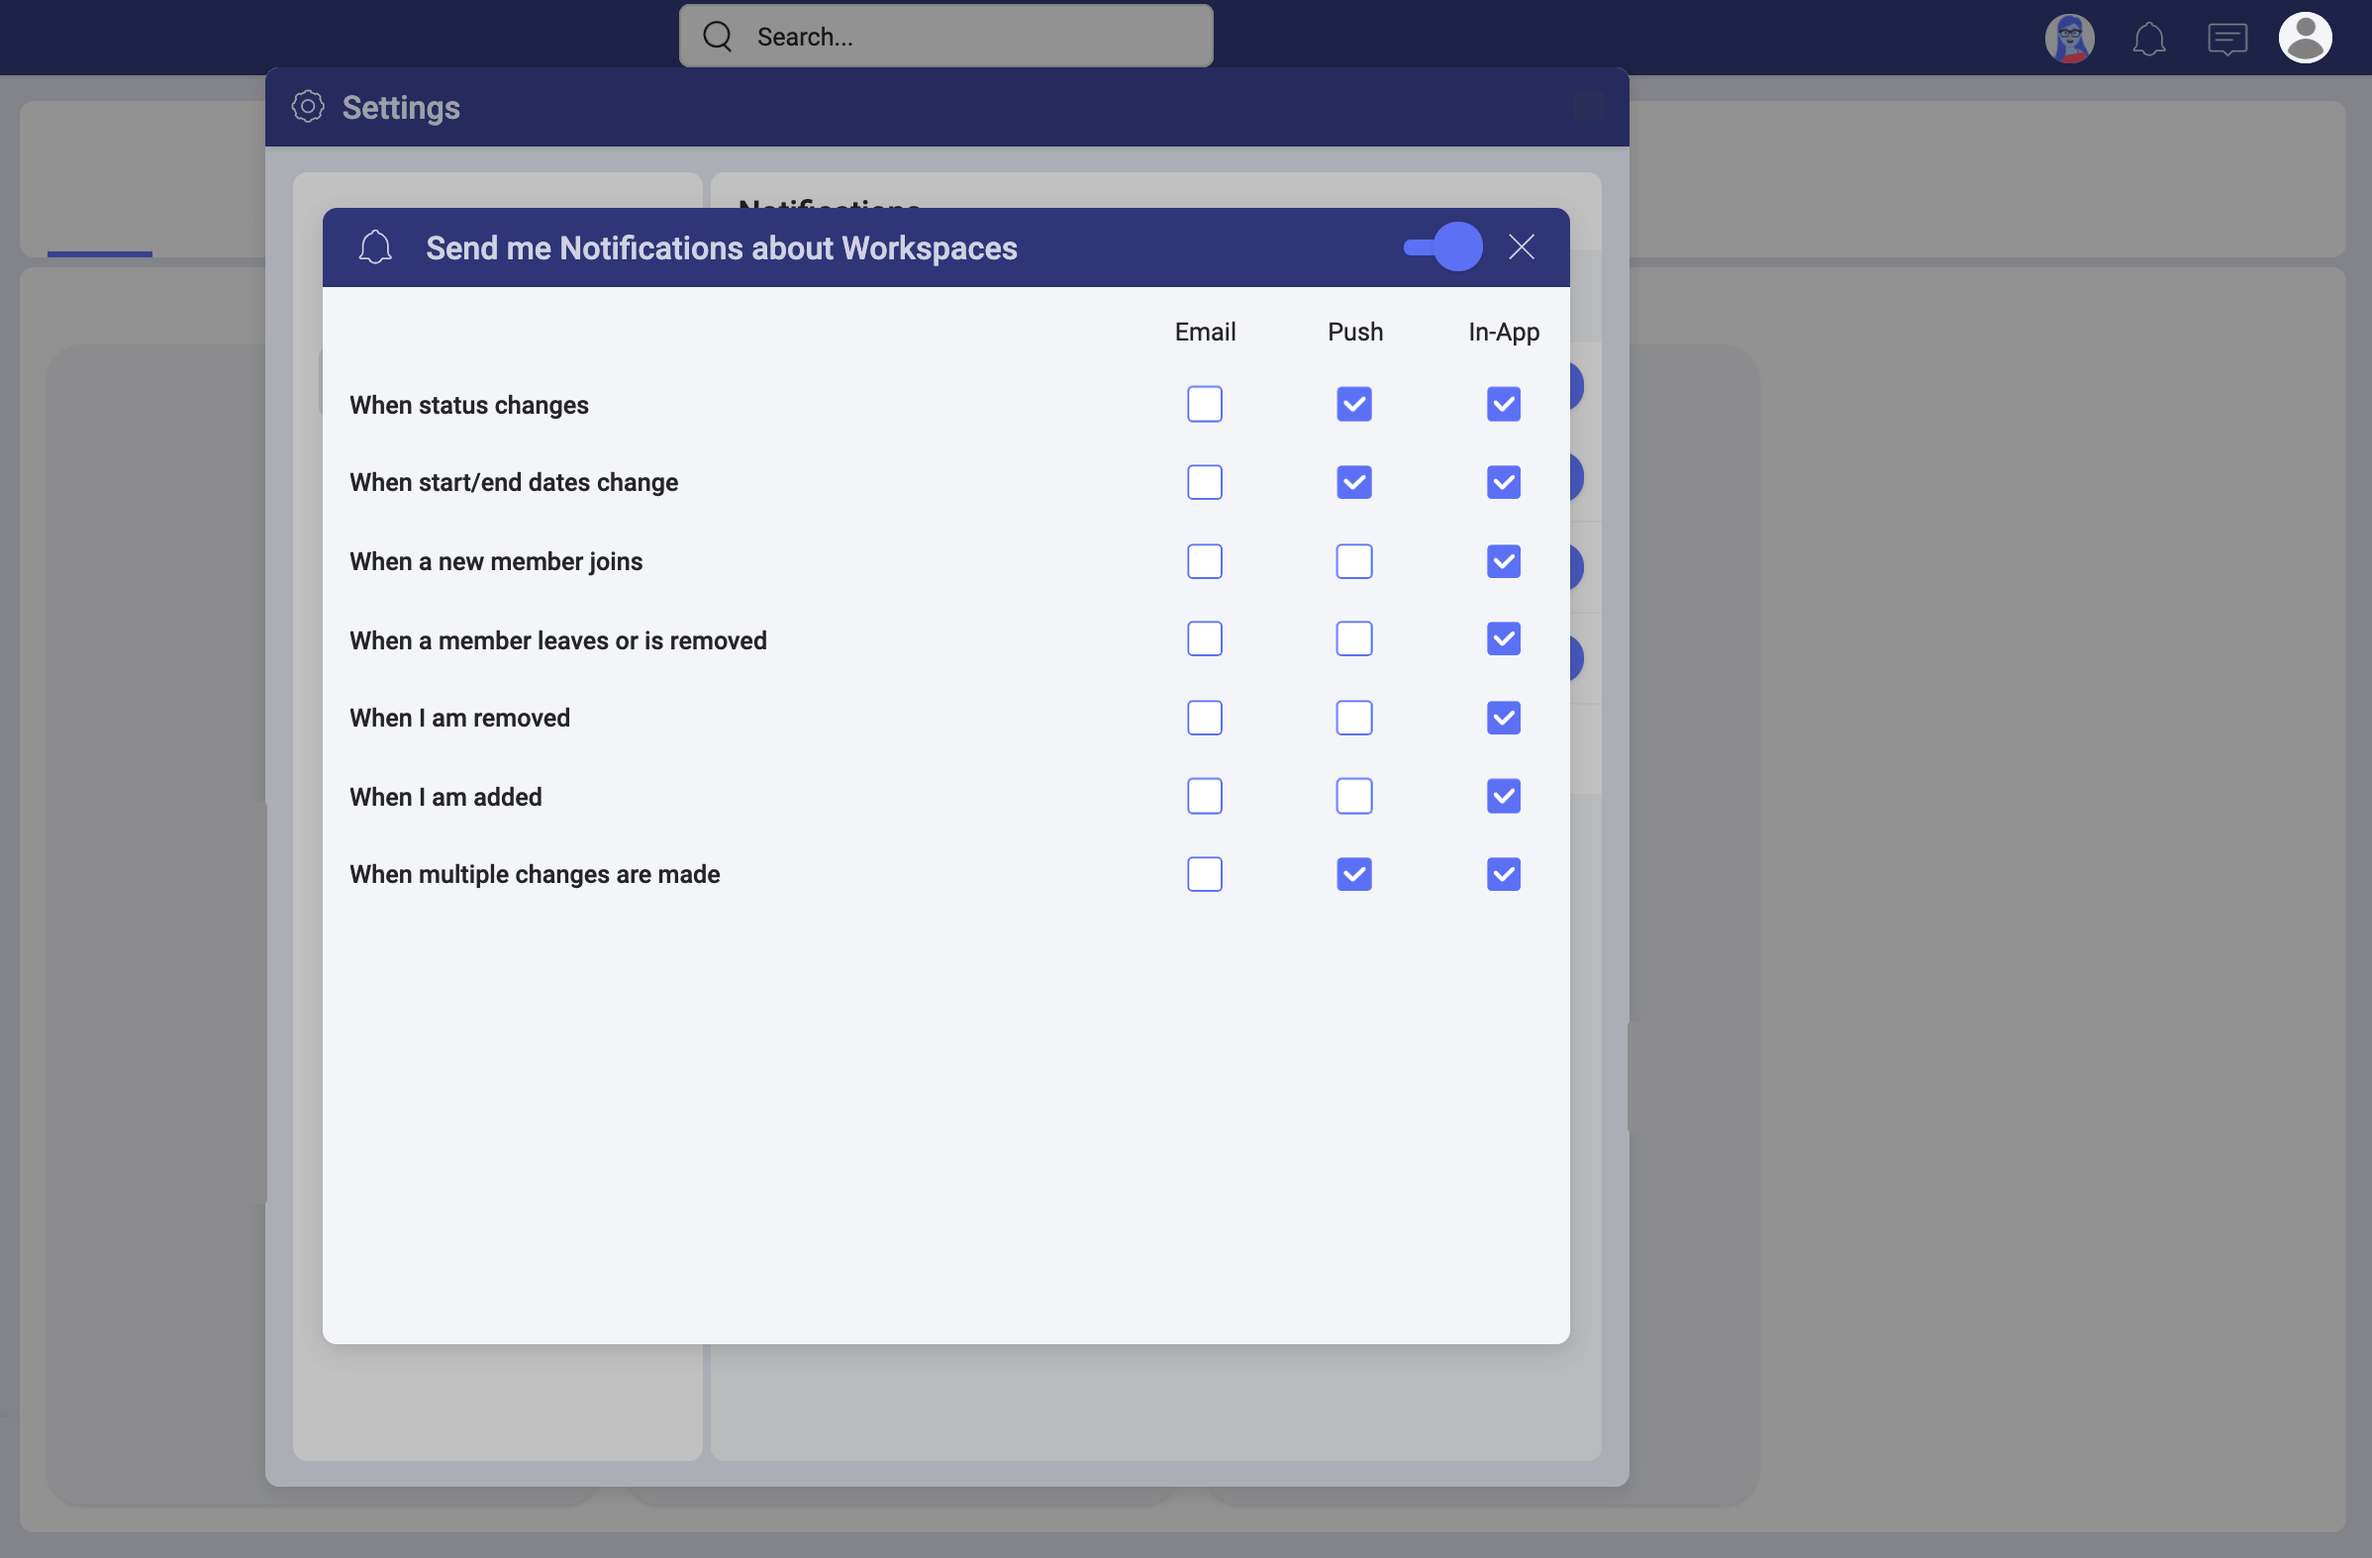
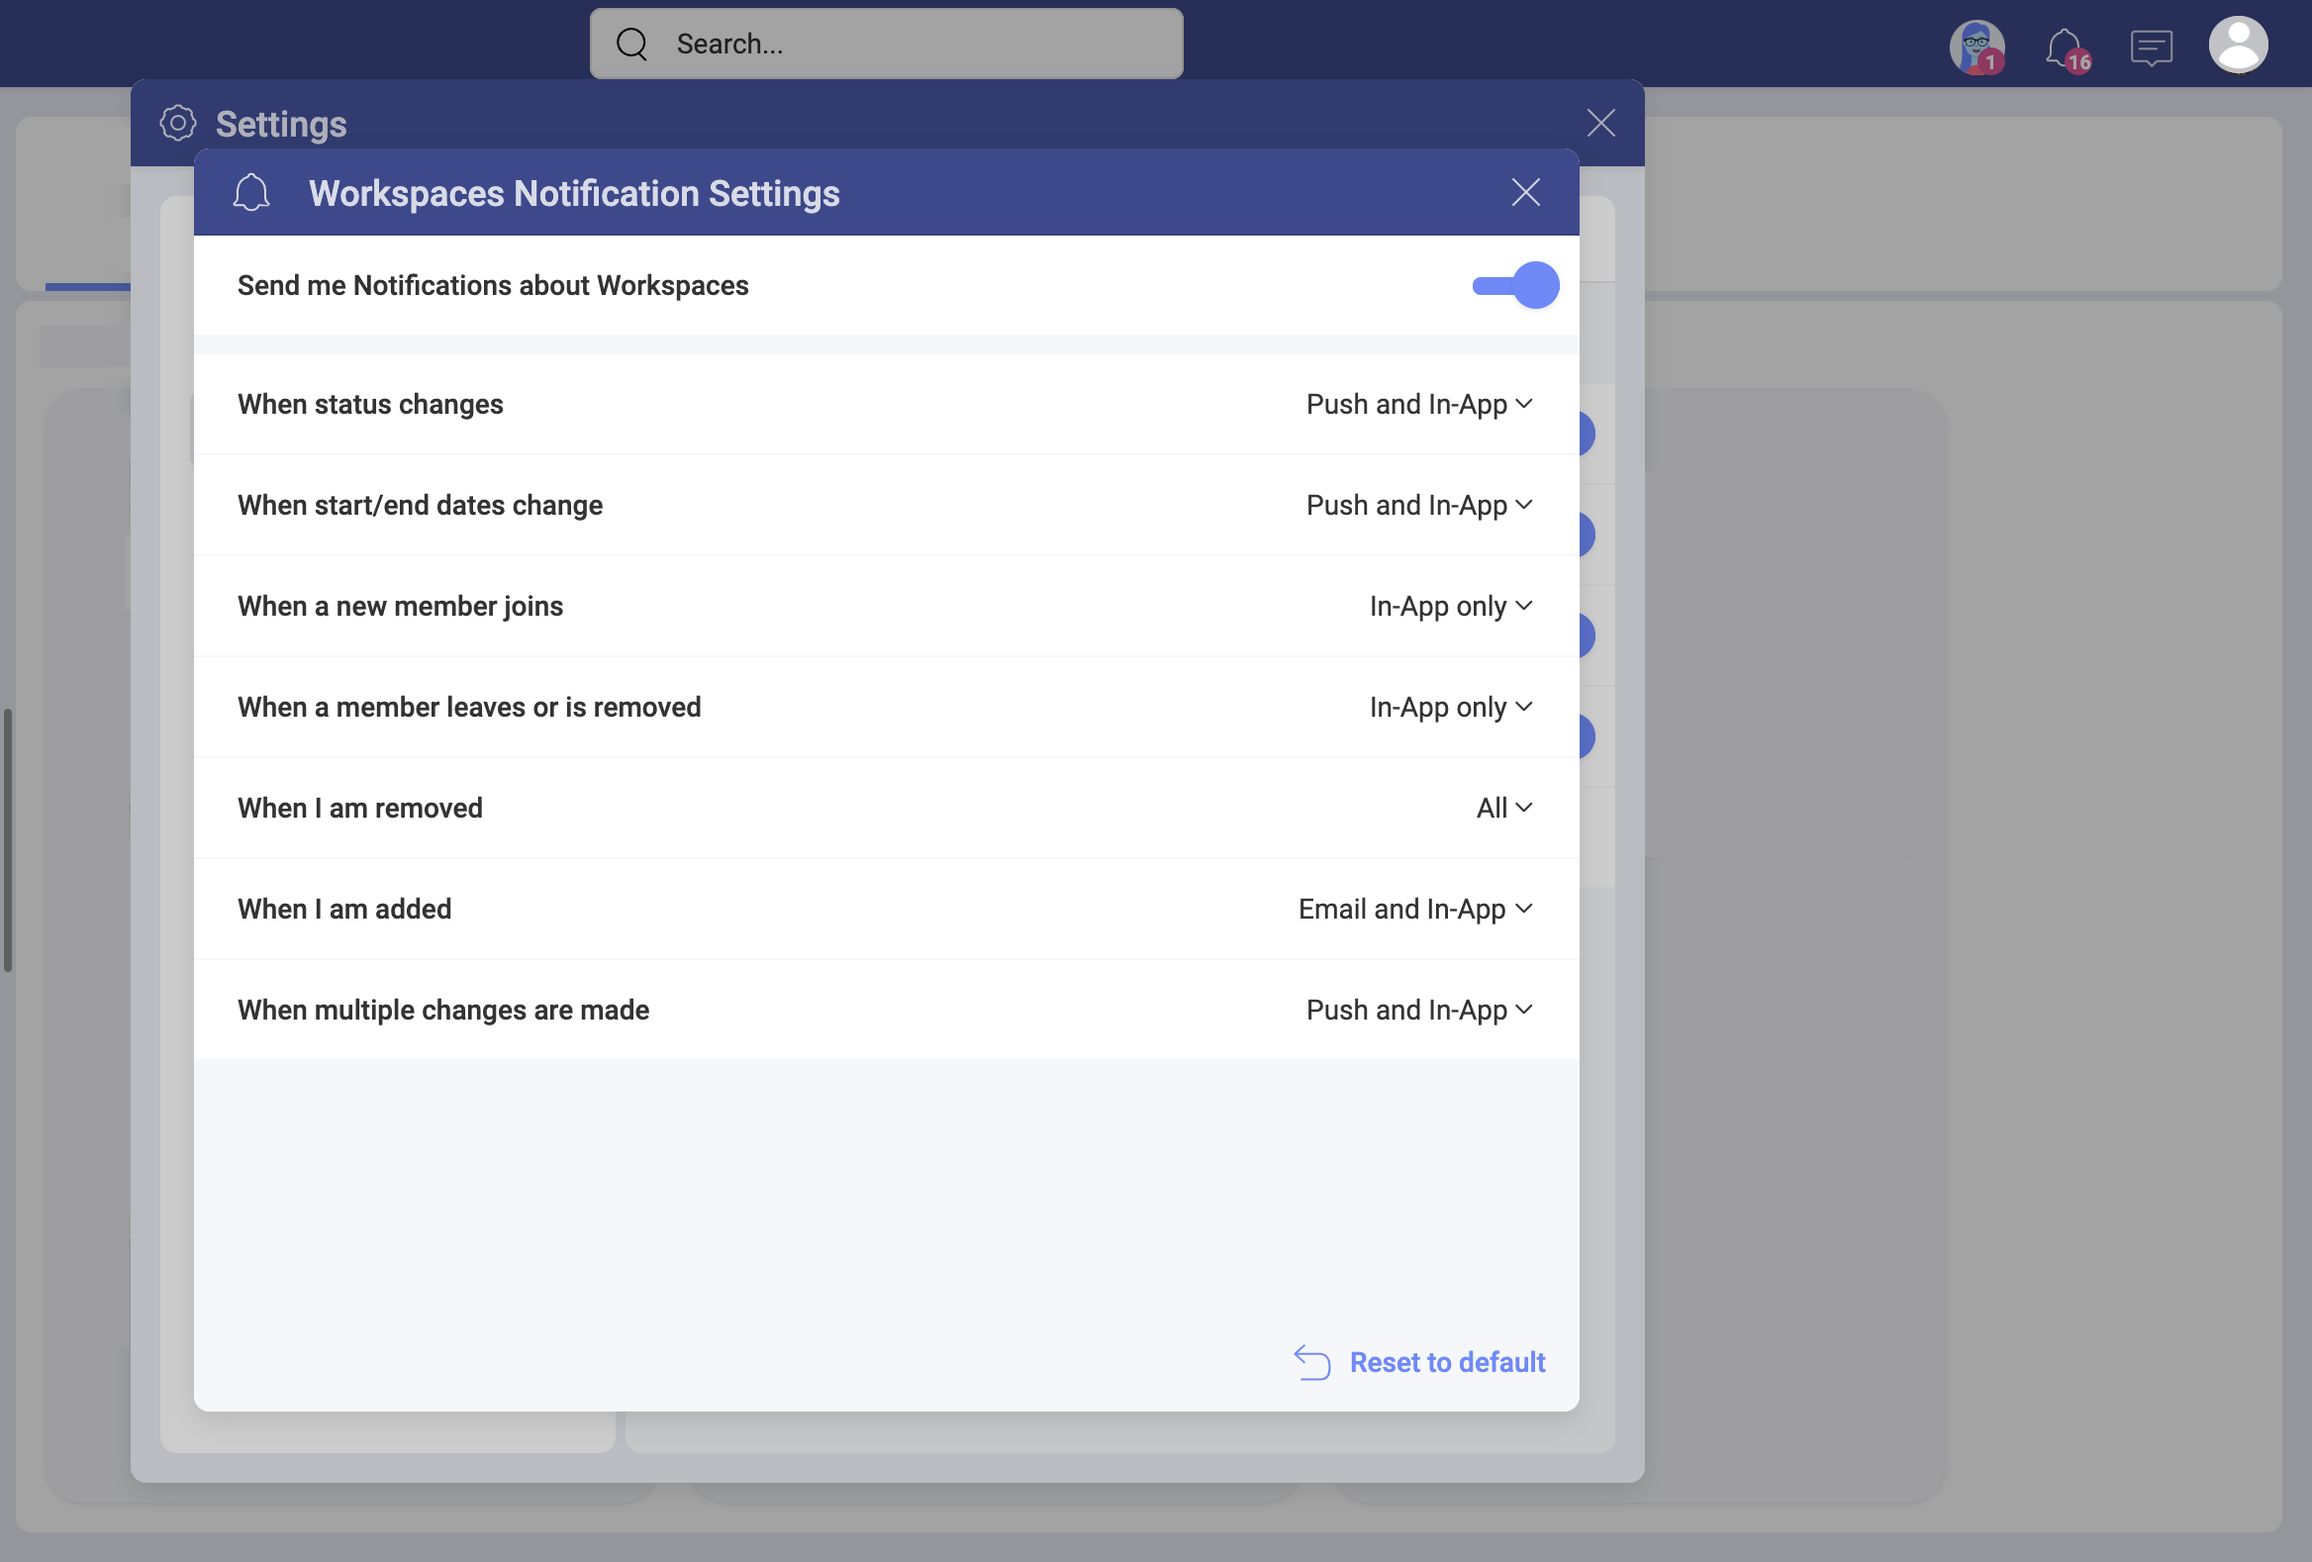
Update the Notifications topic and screenshots

Changed region(s): [[0.0, 0.0, 1.0, 0.9651], [0.25, 0.0, 0.5312, 0.0623], [0.5, 0.4981, 0.5312, 0.5292]]

diff --git a/docfx/en/docs/notifications.md b/docfx/en/docs/notifications.md
@@ -46,7 +46,7 @@ Alternatively, open:
 
 <img src="../images/user-settings-notifications.png" alt="Notifications Settings menu opened in Slingshot" class="responsive-img"/>
 
-Finally, by selecting the pencil icon for each category you can edit the settings or use the toggle on top to turn them off entirely (see the screenshot). 
+Finally, by selecting the pencil icon for each category you can edit the settings or use the toggle on top to turn them off entirely (see the screenshot below). 
 
 <img src="../images/edit-notifications-settings.png" alt="Editing one of the items in the Notifications Settings tab" class="responsive-img"/>
 
